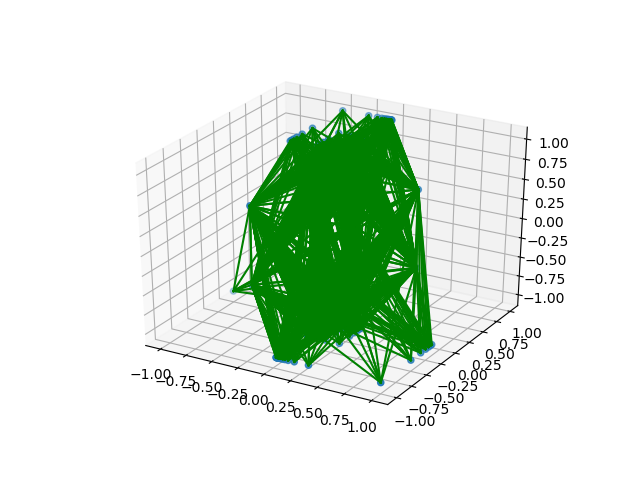
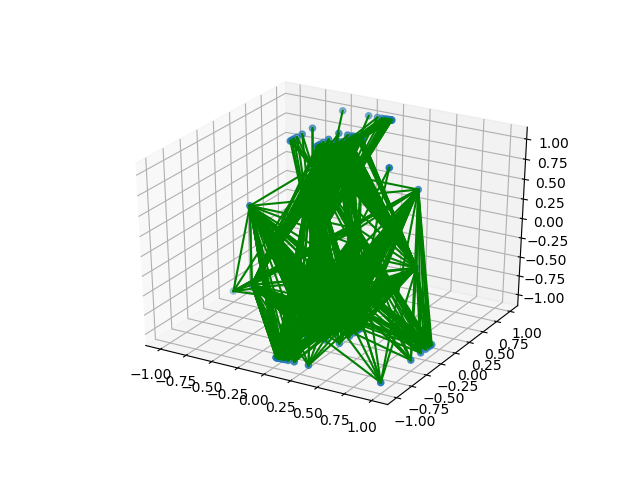
going full brain

diff --git a/trading_purples.py b/trading_purples.py
@@ -22,7 +22,7 @@ class PurpleTrader:
     #needs to be initialized so as to allow for 62 outputs that return a coordinate
 
     # ES-HyperNEAT specific parameters.
-    params = {"initial_depth": 2, 
+    params = {"initial_depth": 3, 
             "max_depth": 4, 
             "variance_threshold": 0.03, 
             "band_threshold": 0.03, 
